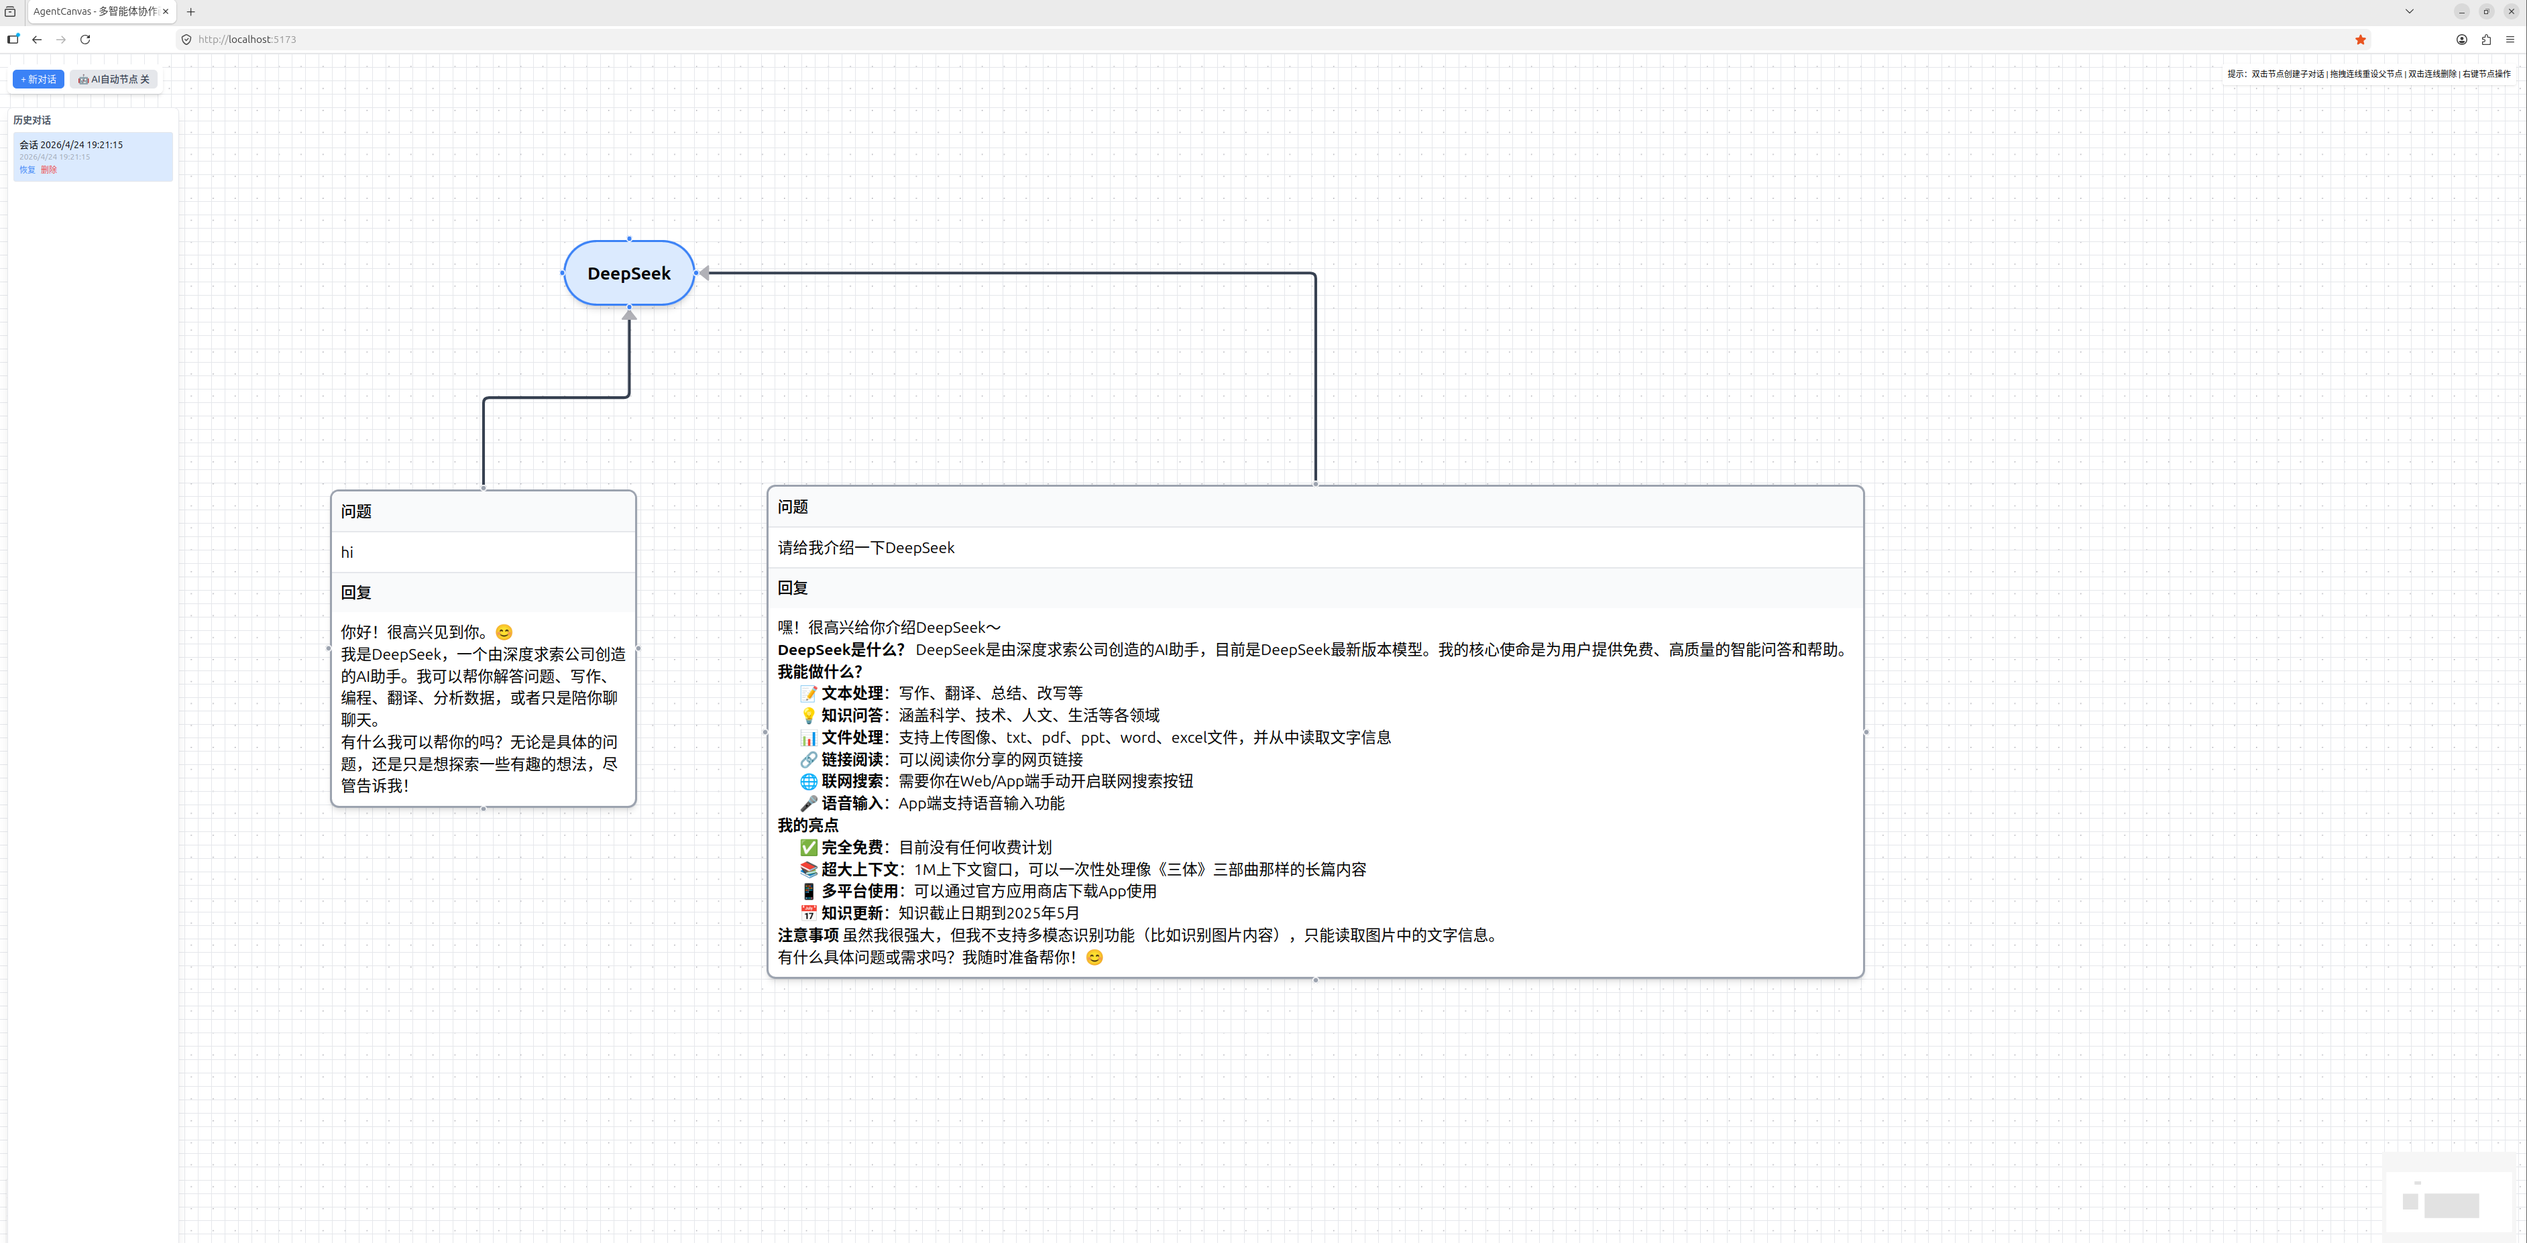
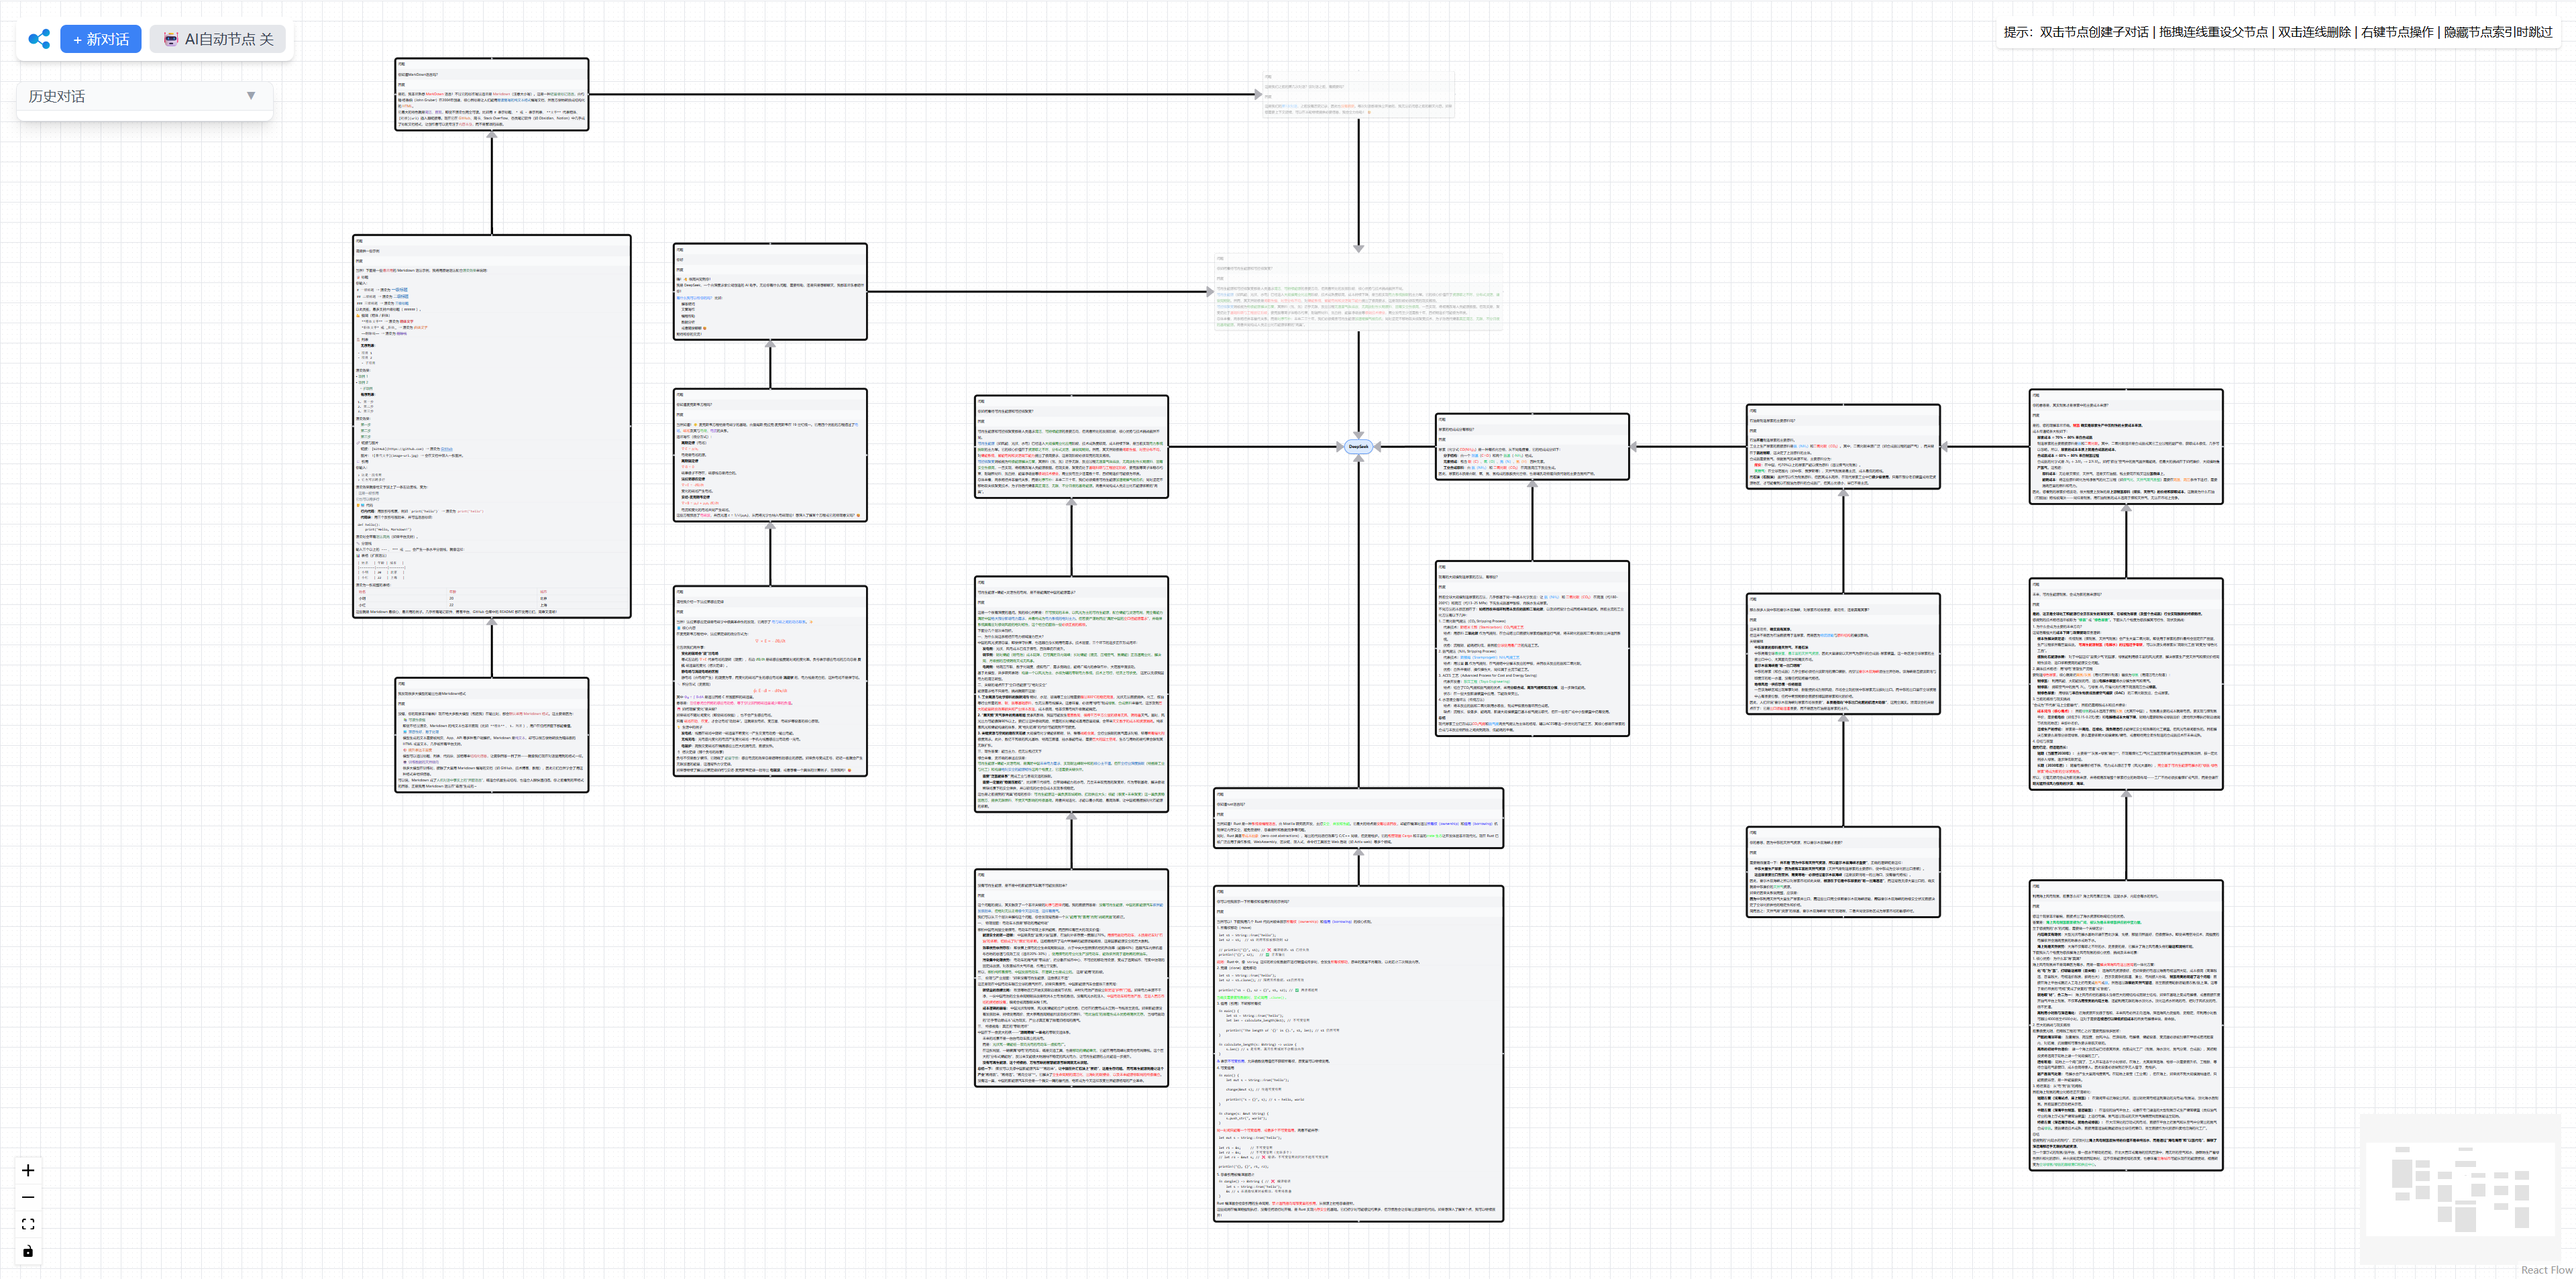
Update demo.png

diff --git a/frontend/src/App.jsx b/frontend/src/App.jsx
@@ -490,7 +490,7 @@ export default function App() {
         <Controls />
         <MiniMap />
         <Panel position="top-right" className="bg-white p-2 rounded shadow text-xs">
-          提示：双击节点创建子对话 | 拖拽连线重设父节点 | 双击连线删除 | 右键节点操作
+          提示：双击节点创建子对话 | 拖拽连线重设父节点 | 双击连线删除 | 右键节点操作 | 隐藏节点索引时跳过
         </Panel>
       </ReactFlow>
       {menu && (
